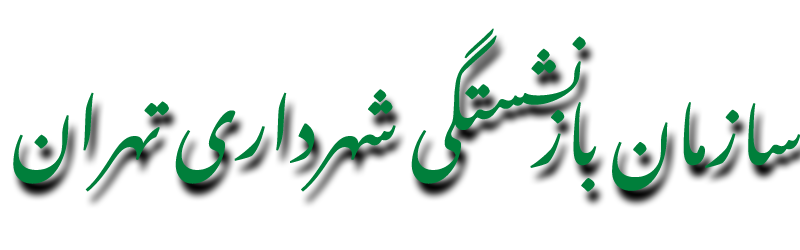
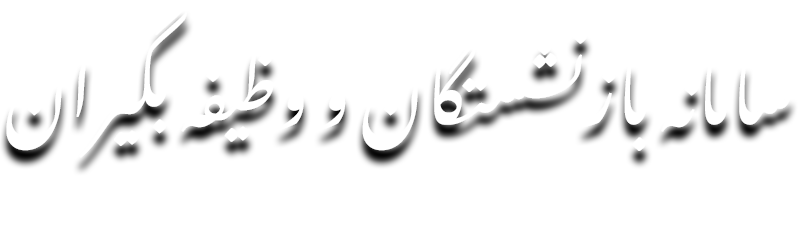
change color theme

Changed region(s): [[0.0, 0.112, 1.0, 0.84], [0.1562, 0.056, 0.25, 0.392]]

diff --git a/src/components/RetiredSection.jsx b/src/components/RetiredSection.jsx
@@ -1,7 +1,7 @@
 // component imports
-import AffairsBankInfoForm from "./AffairsBankInfoForm";
-import AffairsStaffInfoForm from "./AffairsStaffInfoForm";
-import AffairsPersonalInfoForm from "./AffairsPersonalInfoForm";
+import RetiredAdditionalInfo from "../forms/RetiredAdditionalInfo";
+import RetiredStaffInfo from "../forms/RetiredStaffInfo";
+import RetiredPersonalInfo from "../forms/RetiredPersonalInfo";
 
 // redux imports
 import { useSelector } from "react-redux";
@@ -17,42 +17,42 @@ function RetiredSection() {
 
   const content = (
     <section className="pensionersAffairs">
-      <Accordion sx={{ backgroundColor: "#d6d6d6" }}>
+      <Accordion sx={{ backgroundColor: "#2e3456", color: "#fff" }}>
         <AccordionSummary
           id="panel-header"
           aria-controls="panel-content"
-          expandIcon={<ArrowDropDownIcon />}
+          expandIcon={<ArrowDropDownIcon sx={{ color: "#fff" }} />}
         >
           اطلاعات فردی بازنشسته
         </AccordionSummary>
         <AccordionDetails>
-          <AffairsPersonalInfoForm retiredData={retiredData} />
+          <RetiredPersonalInfo retiredData={retiredData} />
         </AccordionDetails>
       </Accordion>
 
-      <Accordion sx={{ backgroundColor: "#d6d6d6" }}>
+      <Accordion sx={{ backgroundColor: "#2e3456", color: "#fff" }}>
         <AccordionSummary
           id="panel-header"
           aria-controls="panel-content"
-          expandIcon={<ArrowDropDownIcon />}
+          expandIcon={<ArrowDropDownIcon sx={{ color: "#fff" }} />}
         >
           اطلاعات پرسنلی
         </AccordionSummary>
         <AccordionDetails>
-          <AffairsStaffInfoForm />
+          <RetiredStaffInfo />
         </AccordionDetails>
       </Accordion>
 
-      <Accordion sx={{ backgroundColor: "#d6d6d6" }}>
+      <Accordion sx={{ backgroundColor: "#2e3456", color: "#fff" }}>
         <AccordionSummary
           id="panel-header"
           aria-controls="panel-content"
-          expandIcon={<ArrowDropDownIcon />}
+          expandIcon={<ArrowDropDownIcon sx={{ color: "#fff" }} />}
         >
           اطلاعات تکمیلی
         </AccordionSummary>
         <AccordionDetails>
-          <AffairsBankInfoForm />
+          <RetiredAdditionalInfo />
         </AccordionDetails>
       </Accordion>
     </section>

diff --git a/src/components/SidebarNav.jsx b/src/components/SidebarNav.jsx
@@ -22,7 +22,7 @@ function SidebarNav() {
         <SubMenu
           label={
             <>
-              <PersonOutlinedIcon sx={{ color: "#00863e" }} />
+              <PersonOutlinedIcon sx={{ color: "#fff" }} />
               &nbsp; &nbsp;
               <span>امور بازنشستان</span>
             </>
@@ -39,26 +39,26 @@ function SidebarNav() {
           <MenuItem> گزارشات </MenuItem>
         </SubMenu>
         <MenuItem>
-          <GroupOutlinedIcon sx={{ color: "#00863e" }} />
+          <GroupOutlinedIcon sx={{ color: "#fff" }} />
           &nbsp; &nbsp; امورمشتریان
         </MenuItem>
         <MenuItem>
-          <PaymentOutlinedIcon sx={{ color: "#00863e" }} />
+          <PaymentOutlinedIcon sx={{ color: "#fff" }} />
           &nbsp; &nbsp; حقوق و دستمزد{" "}
         </MenuItem>
         <MenuItem>
-          <HomeOutlinedIcon sx={{ color: "#00863e" }} />
+          <HomeOutlinedIcon sx={{ color: "#fff" }} />
           &nbsp; &nbsp; اجتماعی و رفاهی
         </MenuItem>
         <MenuItem>
-          <EqualizerOutlinedIcon sx={{ color: "#00863e" }} />
+          <EqualizerOutlinedIcon sx={{ color: "#fff" }} />
           &nbsp; &nbsp; مدیریت سیستم{" "}
         </MenuItem>
 
         <SubMenu
           label={
             <>
-              <LightbulbOutlinedIcon sx={{ color: "#00863e" }} />
+              <LightbulbOutlinedIcon sx={{ color: "#fff" }} />
               &nbsp; &nbsp;
               <span>اطلاعات پایه</span>
             </>
@@ -73,7 +73,7 @@ function SidebarNav() {
         </SubMenu>
 
         <MenuItem>
-          <AssignmentTurnedInOutlinedIcon sx={{ color: "#00863e" }} />
+          <AssignmentTurnedInOutlinedIcon sx={{ color: "#fff" }} />
           &nbsp; &nbsp; گزارشات{" "}
         </MenuItem>
       </Menu>

diff --git a/src/grids/UsersGrid.jsx b/src/grids/UsersGrid.jsx
@@ -28,12 +28,12 @@ import {
 } from "@mui/icons-material";
 
 // components
-import Modal from "./Modal";
-import UserEditForm from "./UserEditForm";
-import UserButton from "./UserButton";
-import GroupsGridUserScreen from "./GroupsGridUserScreen";
-import UserGroupsGrid from "./UserGroupsGrid";
-import ArrowButtonsUsers from "./ArrowButtonsUsers";
+import Modal from "../components/Modal";
+import UserEditForm from "../components/UserEditForm";
+import UserButton from "../components/UserButton";
+import GroupsGridUserScreen from "../components/GroupsGridUserScreen";
+import UserGroupsGrid from "../components/UserGroupsGrid";
+import ArrowButtonsUsers from "../components/ArrowButtonsUsers";
 
 // library imports
 import { PaginationItem } from "@mui/material";

diff --git a/src/grids/GroupsGrid.jsx b/src/grids/GroupsGrid.jsx
@@ -17,12 +17,12 @@ import {
 import { convertToPersianNumber, findById } from "../helper.js";
 
 // components
-import Modal from "./Modal";
-import GroupEditForm from "./GroupEditForm";
-import UserButton from "./UserButton";
-import ItemsGrid from "./ItemsGrid";
-import GroupItemGrid from "./GroupItemGrid";
-import ArrowButtonsGroups from "./ArrowButtonsGroups";
+import Modal from "../components/Modal";
+import GroupEditForm from "../components/GroupEditForm";
+import UserButton from "../components/UserButton";
+import ItemsGrid from "../components/ItemsGrid";
+import GroupItemGrid from "../components/GroupItemGrid";
+import ArrowButtonsGroups from "../components/ArrowButtonsGroups";
 
 // utils imports
 import { defaultTableOptions } from "../utils.js";

diff --git a/src/assets/styles/abstracts/_variables.scss b/src/assets/styles/abstracts/_variables.scss
@@ -1,3 +1,21 @@
+// final palette
+// bg colors
+$color-bg-primary: #f1f1f1;
+$color-bg-secondary: #f8f8f8;
+
+// fg colors
+$color-fg-primary: #2e3456;
+$color-fg-secondary: #40497c;
+$color-fg-tertiary: #0077b6;
+
+// grey colors
+$color-grey-1: #d9d9d9;
+$color-grey-2: #707070;
+
+// accent colors
+$color-accent-red: #b63f00;
+$color-accent-green: #1cb600;
+
 // colors
 // grey color
 $color-grey-1: #eee;
@@ -5,10 +23,6 @@ $color-grey-2: #d6d6d6;
 $color-grey-3: #a0a0a0;
 $color-grey-4: #333533;
 $color-grey-5: #252422;
-
-// other dark colors
-$color-dark-purple-1: #212529;
-$color-dark-purple-2: #2a3036;
 
 // accent colors
 $color-accent-dark: #ff9e01;

diff --git a/src/main.jsx b/src/main.jsx
@@ -28,7 +28,7 @@ import Error from "./pages/Error";
 // screens
 import CreateGroupScreen from "./screens/CreateGroupScreen";
 import CreateUserScreen from "./screens/CreateUserScreen";
-import RetirementAffairsScreen from "./screens/RetirementAffairsScreen.jsx";
+import RetiredScreen from "./screens/RetiredScreen.jsx";
 import GroupsScreen from "./screens/GroupsScreen";
 import UsersScreen from "./screens/UsersScreen";
 
@@ -49,7 +49,7 @@ const router = createBrowserRouter(
 
         <Route
           path="/retirement-organization/affairs"
-          element={<RetirementAffairsScreen />}
+          element={<RetiredScreen />}
         />
 
         <Route

diff --git a/src/assets/styles/components/_sidebar.scss b/src/assets/styles/components/_sidebar.scss
@@ -11,18 +11,18 @@
 }
 
 .ps-sidebar-container {
-	background-color: $color-dark-purple-1 !important;
-	color: $color-grey-2 !important;
+	background-color: $color-fg-primary !important;
+	color: $color-white !important;
 }
 
 .ps-menu-button {
 	transition: all 0.25s;
 
 	&:hover {
-		background-color: $color-dark-purple-2 !important;
+		background-color: $color-fg-tertiary !important;
 	}
 }
 
 .ps-submenu-content {
-	background-color: $color-grey-3 !important;
+	background-color: $color-fg-secondary !important;
 }

diff --git a/src/forms/RetiredPersonalInfo.jsx b/src/forms/RetiredPersonalInfo.jsx
@@ -4,7 +4,7 @@ import { useState, useEffect } from "react";
 // mui imports
 import { PersonOutlined as PersonOutlinedIcon } from "@mui/icons-material";
 
-function AffairsPersonalInfoForm({ retiredData }) {
+function RetiredPersonalInfo({ retiredData }) {
   const [personObject, setPersonObject] = useState(retiredData);
 
   useEffect(() => {
@@ -404,4 +404,4 @@ function AffairsPersonalInfoForm({ retiredData }) {
   return content;
 }
 
-export default AffairsPersonalInfoForm;
+export default RetiredPersonalInfo;

diff --git a/src/App.jsx b/src/App.jsx
@@ -46,13 +46,13 @@ function App() {
     throttle: 500,
   });
 
-  useEffect(() => {
-    if (!token) {
-      navigate("/retirement-organization/");
-    } else {
-      setUserName(jwtDecode(token).name);
-    }
-  }, [token, navigate, isLoginPage]);
+  // useEffect(() => {
+  //   if (!token) {
+  //     navigate("/retirement-organization/");
+  //   } else {
+  //     setUserName(jwtDecode(token).name);
+  //   }
+  // }, [token, navigate, isLoginPage]);
 
   useEffect(() => {
     if (token) {

diff --git a/src/screens/RetiredScreen.jsx b/src/screens/RetiredScreen.jsx
@@ -1,8 +1,7 @@
-// components
 import RetiredSection from "../components/RetiredSection";
 import RetiredInfoSection from "../components/RetiredInfoSection";
 
-function RetirementAffairsScreen() {
+function RetiredScreen() {
   return (
     <div className="main">
       <RetiredSection />
@@ -11,4 +10,4 @@ function RetirementAffairsScreen() {
   );
 }
 
-export default RetirementAffairsScreen;
+export default RetiredScreen;

diff --git a/src/forms/RetiredStaffInfo.jsx b/src/forms/RetiredStaffInfo.jsx
@@ -1,4 +1,4 @@
-function AffairsStaffInfoForm() {
+function RetiredStaffInfo() {
   const content = (
     <form method="POST" className="grid grid--col-3 formContainer" noValidate>
       <div className="inputBox__form">
@@ -110,4 +110,4 @@ function AffairsStaffInfoForm() {
   return content;
 }
 
-export default AffairsStaffInfoForm;
+export default RetiredStaffInfo;

diff --git a/src/forms/RetiredAdditionalInfo.jsx b/src/forms/RetiredAdditionalInfo.jsx
@@ -1,4 +1,4 @@
-function AffairsBankInfoForm() {
+function RetiredAdditionalInfo() {
   return (
     <form method="POST" className="grid grid--col-3 formContainer " noValidate>
       <div className="inputBox__form">
@@ -75,4 +75,4 @@ function AffairsBankInfoForm() {
   );
 }
 
-export default AffairsBankInfoForm;
+export default RetiredAdditionalInfo;
